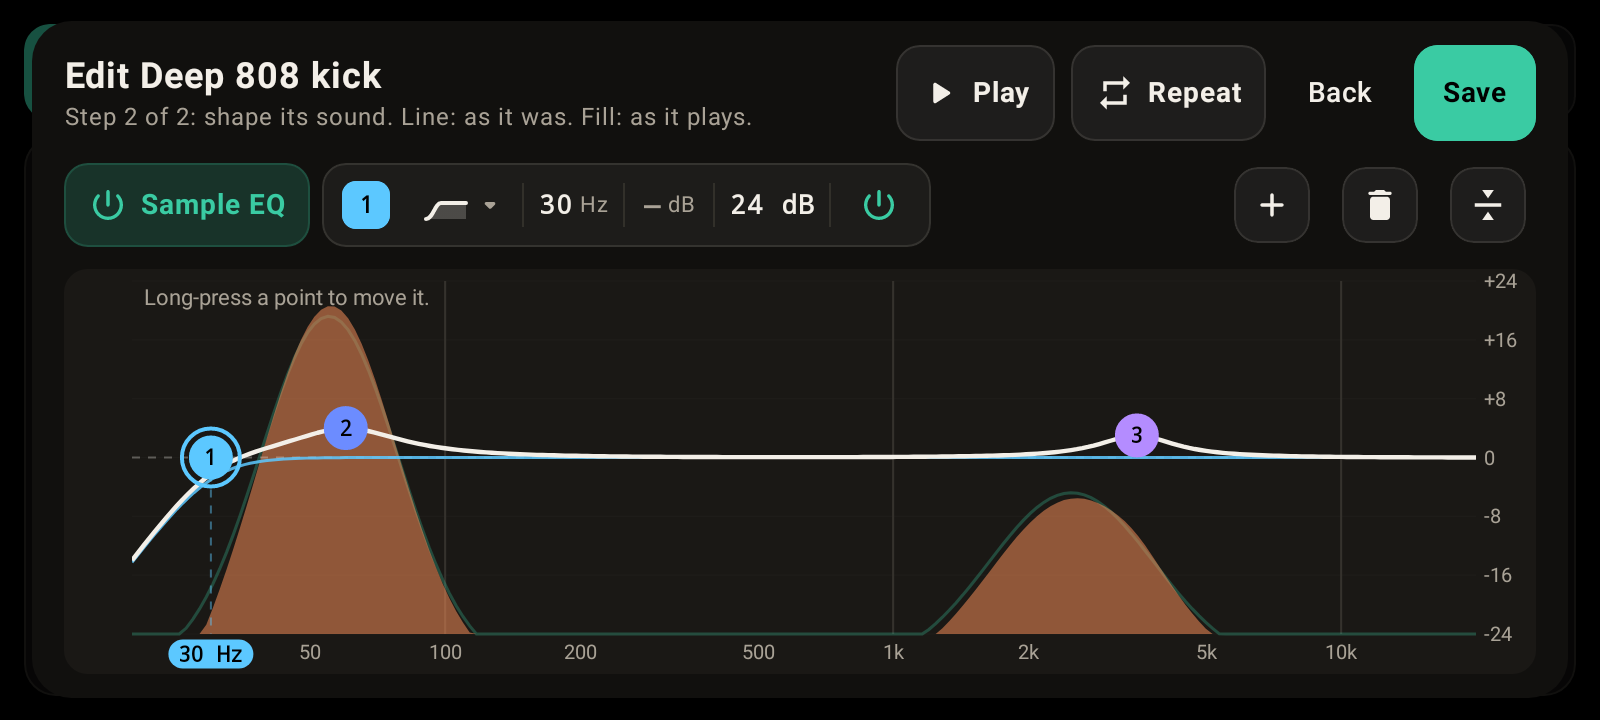
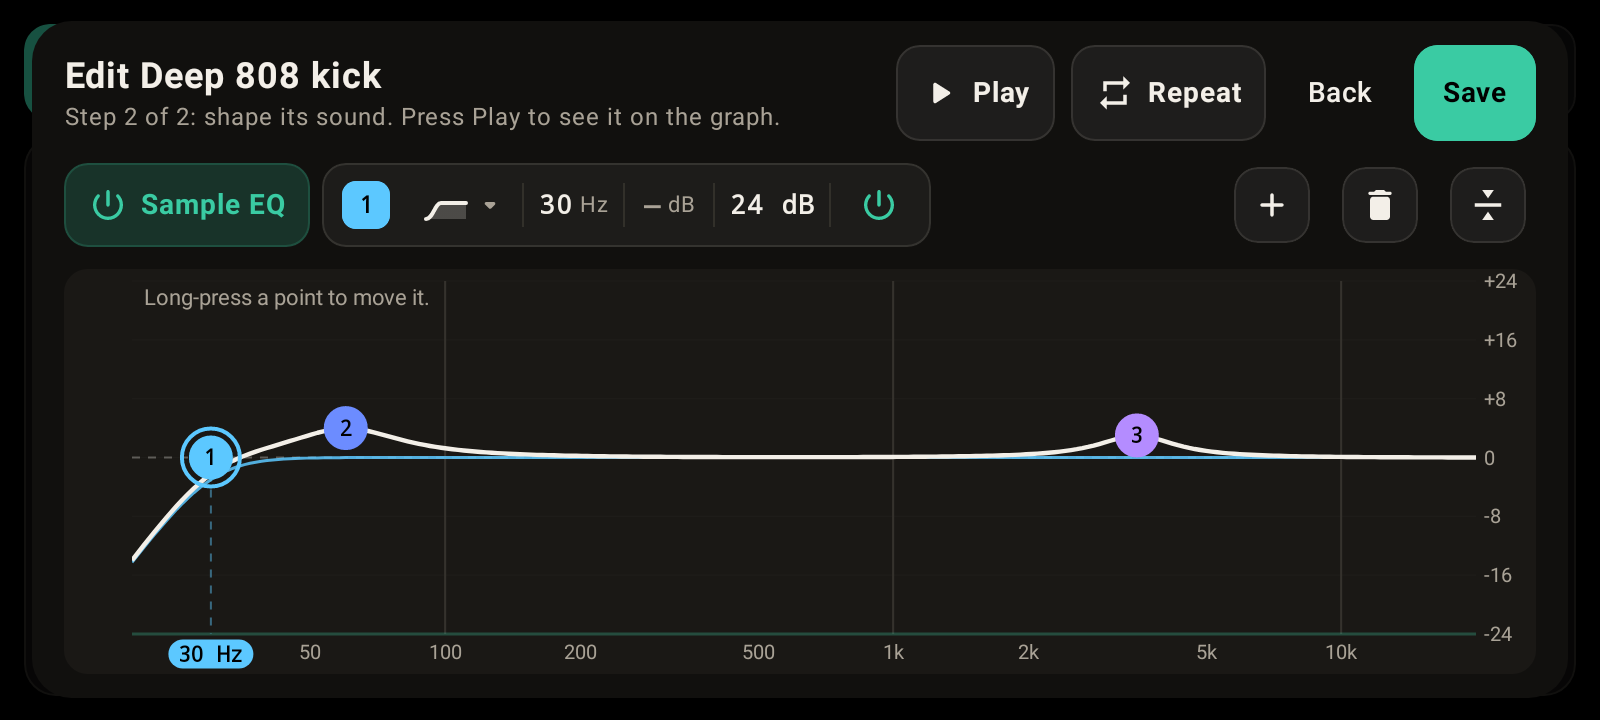
README for DrumTrig 1.5.0 (#9)
* Explain what this repository holds and how to install DrumTrig

Claude-Session: https://claude.ai/code/session_01CanfjeTbmMFMTTSnr8zzQ8

* Point to the new Settings layout and the in-app update

Claude-Session: https://claude.ai/code/session_01CanfjeTbmMFMTTSnr8zzQ8

* README: DrumTrig checks for updates each time it opens (0.24.0)

Claude-Session: https://claude.ai/code/session_01CanfjeTbmMFMTTSnr8zzQ8

* README: what DrumTrig does, with screenshots; current Settings names

Claude-Session: https://claude.ai/code/session_01CanfjeTbmMFMTTSnr8zzQ8

* README: Input EQ, the sample editor and the limiter, with current screenshots

The page still described the trigger filter and a per-sample EQ. It now
describes Input EQ on the graph, the two-step sample editor, automatic
Hold, the limiter that keeps the output from clipping, and where the
latency comes from. The pictures are from 0.41.1, with two new ones of
the sample editor.

Claude-Session: https://claude.ai/code/session_01CanfjeTbmMFMTTSnr8zzQ8

* README: the Liquid Glass theme, with a screenshot

Claude-Session: https://claude.ai/code/session_01CanfjeTbmMFMTTSnr8zzQ8

* README: DrumTrig 1.0.0 is signed with a private key; how to move from 0.x

Claude-Session: https://claude.ai/code/session_01CanfjeTbmMFMTTSnr8zzQ8

* README: DrumTrig 1.1.0 plays recorded drum sounds only; current Trigger menu

Claude-Session: https://claude.ai/code/session_01CanfjeTbmMFMTTSnr8zzQ8
[…]

Changed region(s): [[0.0938, 0.4278, 0.3125, 0.8861], [0.5625, 0.6722, 0.7812, 0.8861], [0.25, 0.1528, 0.5, 0.1833]]

diff --git a/README.md b/README.md
@@ -7,12 +7,12 @@
 ## What it does
 
 - **Triggers from any mic.** Set the threshold (THR) on the IN meter, and shape the incoming sound with **Input EQ** on the graph, so only your drum fires the sound and the rest of the kit doesn't. The graph shows the sound as the trigger hears it.
-- **Set by hitting.** Leave the drum alone for a moment, hit it a few times softly and hard, and DrumTrig suggests the threshold, the Input EQ cuts, the hold time and the Range (how much quieter your softest hit plays than your hardest). Even without it, Hold and Range set themselves for each kind of drum.
-- **Plays the sound you choose.** Recorded drum kits (a free download offered when you first open DrumTrig), or your own samples. Every sample opens in the sample editor: trim it to the hit, fade the end, set its level, then shape it with its own EQ. The file itself is never changed.
+- **Set by hitting.** Leave the drum alone while it listens to the room (it counts the seconds down), hit it a few times softly and hard, and DrumTrig suggests the threshold, the Input EQ cuts, the hold time and the Range (how much quieter your softest hit plays than your hardest). Even without it, Hold and Range set themselves for each kind of drum, and Automatic Hold shortens itself to keep up with fast rolls.
+- **Plays the sound you choose.** Recorded drum kits (a free download offered when you first open DrumTrig), or your own samples (WAV, MP3, AAC, FLAC or OGG). With a recorded kit, how hard you hit picks the recording: a hit at -18 dB or louder on the IN meter plays the loudest one. Every sample opens in the sample editor: trim it to the hit, fade the end, set its level, then shape it with its own EQ, hearing each change as you make it. The file itself is never changed.
 - **Never clips.** However hard you hit and however high GAIN goes, a limiter turns only the loudest moments down, with no added delay.
-- **Shows its delay.** The latency of every hit is measured and shown, and **Settings › Latency** explains where it comes from, with settings to bring it down.
-- **Made for the stage.** A big-type Stage view, Lock so nothing changes mid-song by accident, Mute, a message if your audio device disconnects, and a light and a dark look.
-- **Two themes.** Classic, with solid panels in warm greys, or Liquid Glass: frosted glass panels over a soft glow of colour, with rounder corners and pill-shaped buttons. Switch between them in **Settings › Display**; both come in light and dark.
+- **Shows its delay.** The latency of every hit is measured and shown, and **Settings › Sound › Latency** explains where it comes from and what you can do to bring it down. DrumTrig always uses the fastest path your phone offers.
+- **Made for the stage.** A big-type Stage view, Mute, and Lock, so nothing about the instrument you're playing changes mid-song by accident (the graph and Input EQ stay usable). Long-press the logo to turn DrumTrig on or off. It keeps playing when you switch to another app, with an optional floating button to come back (**Settings › On stage › Keep running**), and says so if your audio device disconnects.
+- **Two themes.** Classic, with solid panels in warm greys, or Liquid Glass: frosted glass panels over a soft glow of colour, with rounder corners and pill-shaped buttons. Switch between them in **Settings › App › Display**; both come in light and dark.
 
 | | |
 |---|---|
